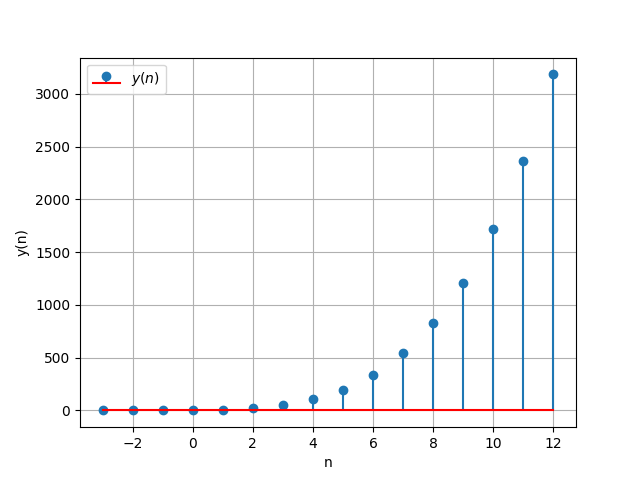
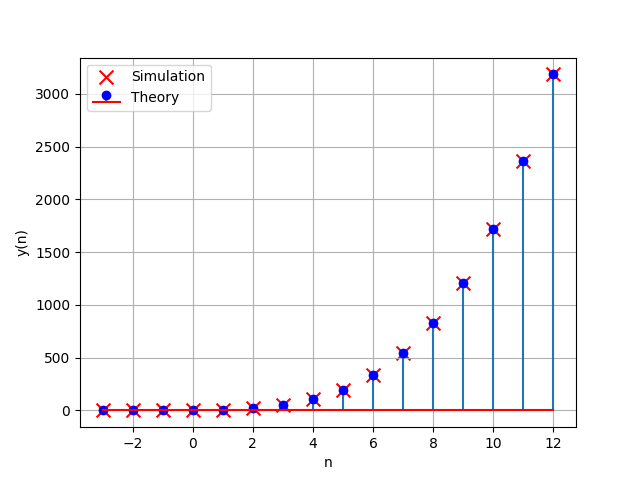
Update 6

diff --git a/11.9.4.7/codes/series.c b/11.9.4.7/codes/series.c
@@ -1,16 +1,57 @@
 #include<stdio.h>
+#include<math.h>
+int u(int n){
+	if(n<0) return 0;
+	else return 1;
+}  // unit step function
 
-int terms(int n){
-    if(n<0) return 0;
-    else return (n+1)*(n+2)*(n+2)*(n+3)/12;
-}
+int sum(int n){
+    return ((n+1)*(n+2)*(n+2)*(n+3)/12)*u(n);
+} // sum to n terms of the series
+
+void convolve(int sig1[],int sig2[], int res[], int size1, int size2)
+{
+	int len_result = size1 + size2 - 1;
+
+    for (int i = 0; i < len_result; i++) {
+        res[i] = 0;
+        for (int j = 0; j < size1; j++) {
+            if (i - j >= 0 && i - j < size2) {
+                res[i] += sig1[j] * sig2[i - j];
+            }
+        }
+    }
+} // function to convolve the arrays
+
+int x(int n){
+	return pow((n+1),2)*u(n);
+} // general term of the series
 
 int main(){
     FILE *ptr;
     ptr=fopen("series.dat", "w");
     for(int i=-3; i<12; i++){
-        fprintf(ptr,"%d ", terms(i));
+        fprintf(ptr,"%d ", sum(i));
     }
-    fprintf(ptr,"%d", terms(12));
+    fprintf(ptr,"%d\n", sum(12));// theoretical values of sum of n terms of the series
+
+    int size1=16, size2=16;
+	int sig1[size1];
+	for(int i=-3; i<14;i++){
+		sig1[i+3]=u(i);
+	}
+	int sig2[size2];
+	for(int i=0; i<16; i++){
+		sig2[i]=x(i-3);
+	}
+	int result1[size1+size2-1];
+	convolve(sig1, sig2, result1, size1, size2);
+	int result2[2*size1+size2-2];
+	convolve(sig1,result1,result2,size2,size1+size2-1);
+	for(int i=6; i<21; i++){
+		fprintf(ptr,"%d ", result2[i]);
+	}
+    fprintf(ptr, "%d",result2[21]);// sum to n terms of the series using convolution
+
     fclose(ptr);
 }

diff --git a/11.9.4.7/main.tex b/11.9.4.7/main.tex
@@ -96,12 +96,11 @@ From \eqref{eq:11.9.4.7.1},
 \begin{align}
     \implies Y\brak{z}&=X\brak{z}U\brak{z}\\
     &=\brak{\frac{1+z^{-1}}{\brak{1-z^{-1}}^4}}\brak{\frac{1}{1-z^{-1}}}\\
-    &=\frac{1+z^{-1}}{\brak{1-z^{-1}}^5}\;\;\cbrak{\abs{z}>1}\\
-    &=\frac{1}{\brak{1-z^{-1}}^5}+\frac{z^{-1}}{\brak{1-z^{-1}}^5}
+    &=\frac{1+z^{-1}}{\brak{1-z^{-1}}^5}\\
+    &=\frac{1}{\brak{1-z^{-1}}^5}+\frac{z^{-1}}{\brak{1-z^{-1}}^5}\;\cbrak{\abs{z}>1}
 \end{align}
 From \eqref{eq:11.9.5.26.12}, using \eqref{eq:shiftk},
 \begin{align}
-    %\frac{\brak{n-1}\brak{n-2}\brak{n-3}\brak{n-4}}{24}u\brak{n-1}\notag\\\system{Z}\frac{z^{-5}}{\brak{1-z^{-1}}^5}\cbrak{\abs{z}>1}
     \frac{\brak{n+1}\brak{n+2}\brak{n+3}\brak{n+4}}{24}u\brak{n}&\system{Z}\frac{1}{\brak{1-z^{-1}}^5}\label{eq:11.9.4.7.2}\cbrak{\abs{z}>1}\\
     \frac{\brak{n}\brak{n+1}\brak{n+2}\brak{n+3}}{24}u\brak{n}&\system{Z}\frac{z^{-1}}{\brak{1-z^{-1}}^5}\label{eq:11.9.4.7.3}\cbrak{\abs{z}>1}
 \end{align}

diff --git a/11.9.4.7/codes/plot.py b/11.9.4.7/codes/plot.py
@@ -3,8 +3,10 @@ import matplotlib.pyplot as plt
 
 
 n_values=np.arange(-3,13)
-y=np.loadtxt("series.dat", delimiter=" ", max_rows=1)
-plt.stem(n_values,y, basefmt='r', label=r'$y(n)$')
+y1=np.loadtxt("series.dat", delimiter=" ", max_rows=1)
+y2=np.loadtxt("series.dat", delimiter=" ", skiprows=1)
+plt.stem(n_values,y1, markerfmt="bo", basefmt='r', label=r'Theory')
+plt.scatter(n_values,y2, marker='x',s=100,color="red", label=r'Simulation')
 plt.xlabel('n')
 plt.ylabel("y(n)")
 plt.legend()
